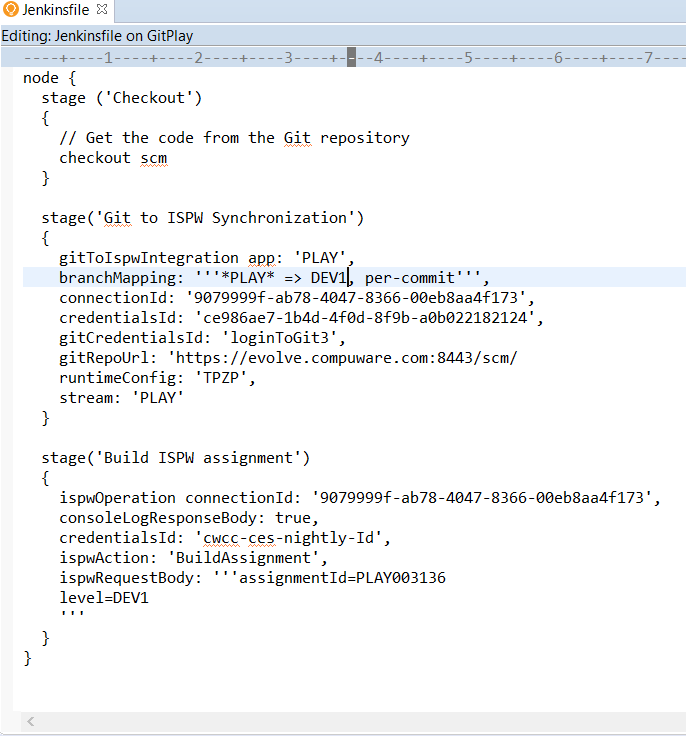
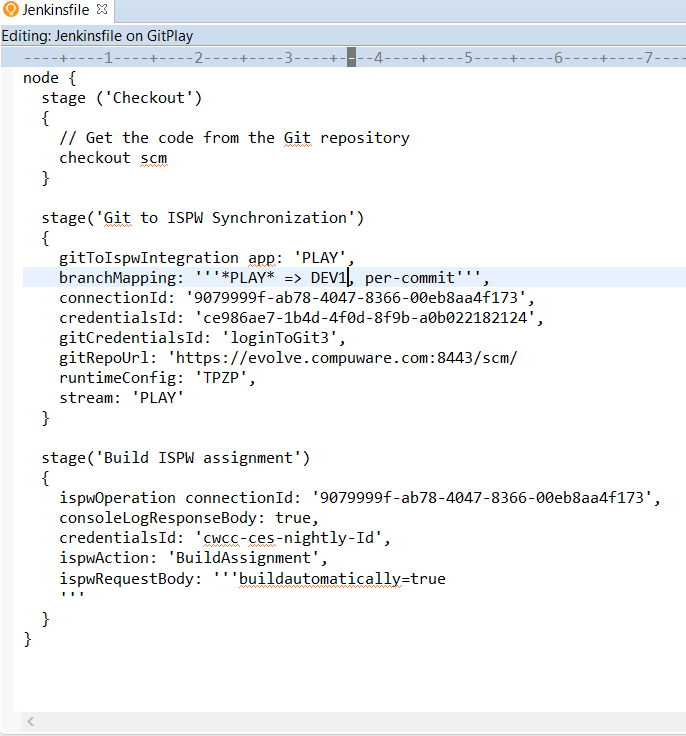
ispw git changes for january 2021

diff --git a/docs/guidelines/ispw/GIT_to_ISPW_Integration_Tutorial.md b/docs/guidelines/ispw/GIT_to_ISPW_Integration_Tutorial.md
@@ -1,5 +1,5 @@
 ---
-pntitle: Git to ISPW Integration Tutorial
+spntitle: Git to ISPW Integration Tutorial
 footer: MIT Licensed | Copyright © 2020 – Compuware
 ---
 # Git to ISPW Integration Tutorial
@@ -28,7 +28,7 @@ Topaz Workbench 20.01.01:
  Jenkins version 2.190.3:
  Topaz Workbench CLI version 20.01.01
  Compuware Common Configurations Jenkins plugin 1.0.10-SNAPSHOT
- ISPW Operations Jenkins plugin 1.0.5-SNAPSHOT
+ ISPW Operations Jenkins plugin 1.0.8-SNAPSHOT
 
  Atlassian Bitbucket v5.16.0
 
@@ -141,7 +141,7 @@ If you are not logged into a host connection where the ISPW PLAY application is 
 
 1. In Topaz Workbench’s **Project Explorer** view, right-click the **GitPlay** project node and select **Configure>Configure to Use ISPW**. The **Configure ISPW and GIT Mapping** wizard appears.
 
-2. From the **Host** list, select the host where the PLAY application is located, or click **Configure** to configure a host.
+2. From the **Host** list, select the host where the PLAY application is located, or click **Configure** to configure a host. Compuware recommends using the fully qualified domain name when configuring the host.
 
 3. In the **Runtime Configuration** field, enter the runtime configuration if not using the default ISPW instance.
 
@@ -168,7 +168,7 @@ If you are not logged into a host connection where the ISPW PLAY application is 
          ,,,   !!com.compuware.ispw.cli.model.IspwRoot
              ispwApplication:
                application: PLAY
-               host: abcd
+               host: somehost.example.com
                pathMappings:
                - path: \CLST
              types:
@@ -275,8 +275,7 @@ node {
 	consoleLogResponseBody: true, 
 	credentialsId: 'CES20.1Conn', 
 	ispwAction: 'BuildAssignment', 
-	ispwRequestBody: '''assignmentId=PLAY003145
-	level=DEV1
+	ispwRequestBody: '''buildautomatically = true
 	'''
   }
 }
@@ -314,7 +313,7 @@ node {
    ![gitToIspwIntegration3](../images/gitToIspwIntegration3.png)
 
 
-   **Note:** If any user ID or login credentials are present at the beginning of the Git repository URL, remove them. 
+   **Note:** For ISPW Operations Jenkins plugin 1.0.7 or older, if any user ID or login credentials are present at the beginning of the Git repository URL, remove them. 
 
 9. Copy and paste the generated script within the second stage in the text file, replacing all code between the curly braces for that stage.
 
@@ -329,17 +328,14 @@ node {
 12. In the **Request** field, specify the following:
 
     ```
-    assignmentId=PLAY003145
-    level=DEV1
+    buildautomatically=true
     ```
-
-    **Note:** In a later step, a new **assignmentId** will be used for the pipeline. It isn’t known at this time, so leave the assignment ID as is.
-
+    
 13. Complete the rest of the fields, referring to the available help as needed. 
 
 14. Click **Generate Pipeline Script**. The generated script appears below the **Generate Pipeline Script** button. 
 
-    ![ispwOperationScript](../images/ispwOperationScript.png)
+    ![ispwOperationScript](../images/index.png)
 
     
 
@@ -446,14 +442,14 @@ node {
 
     ![ConsoleViewBuild](../images/ConsoleViewBuild.png)
 
-7. In the **Console** view, note the assignment where TPROG01 was loaded. This is the assignment number that will be specified for the build in the Jenkinsfile **Build ISPW** stage below. In the example above, TPROG01 was loaded into assignment PLAY003136 at the DEV1 level.
+7. In the **Console** view, note the assignment where TPROG01 was loaded. In the example above, TPROG01 was loaded into assignment PLAY003136 at the DEV1 level.
     <a id="_4-update-the-jenkinsfile-build-ispw-assignment-stage"></a>
 
 #### **Update the Jenkinsfile Build ISPW assignment stage**
 
-1. In Topaz Workbench’s **Project Explorer** view’s **GitPlay** project, right-click **Jenkinsfile** and select **Open**. The source opens in the editor.
+1. In Topaz Workbench’s **Project Explorer** view’s **GitPlay** project, right-click **Jenkinsfile** and select **Open**. The source’ opens in the editor.
 
-3. In the **Build ISPW assignment** stage, change the **assignmentId** to the assignment where TPROG01 was loaded (the assignment ID that was shown in the **Console** view in the previous step). In the example in the previous step, the assignment is PLAY003136.
+3. In the **Build ISPW assignment** stage, verify that the ispwRequestBody reads “‘buildautomatically=true’”.
 
    ![UpdateJenkinsFile1](../images/UpdateJenkinsFile1.png)
 

diff --git a/docs/guidelines/ispw/Git to ISPW Integration - The ISPW YAML Configuration File.md b/docs/guidelines/ispw/Git to ISPW Integration - The ISPW YAML Configuration File.md
@@ -14,7 +14,7 @@ The YAML configuration file contains ISPW property settings and path mappings.
 
 The YAML configuration file **must** contain the following ISPW property settings:
 
-- host - The host name or IP address of the ISPW communications interface (CI) task.
+- host - The host name or IP address of the ISPW communications interface (CI) task. Compuware recommends using the fully qualified domain name when specifying the host.
 - port - The port number for the communications interface (CI) task.
 - stream - A 2- to 8-character code that defines the application structure with which the application is associated.
 - application - A 4-character application ID.
